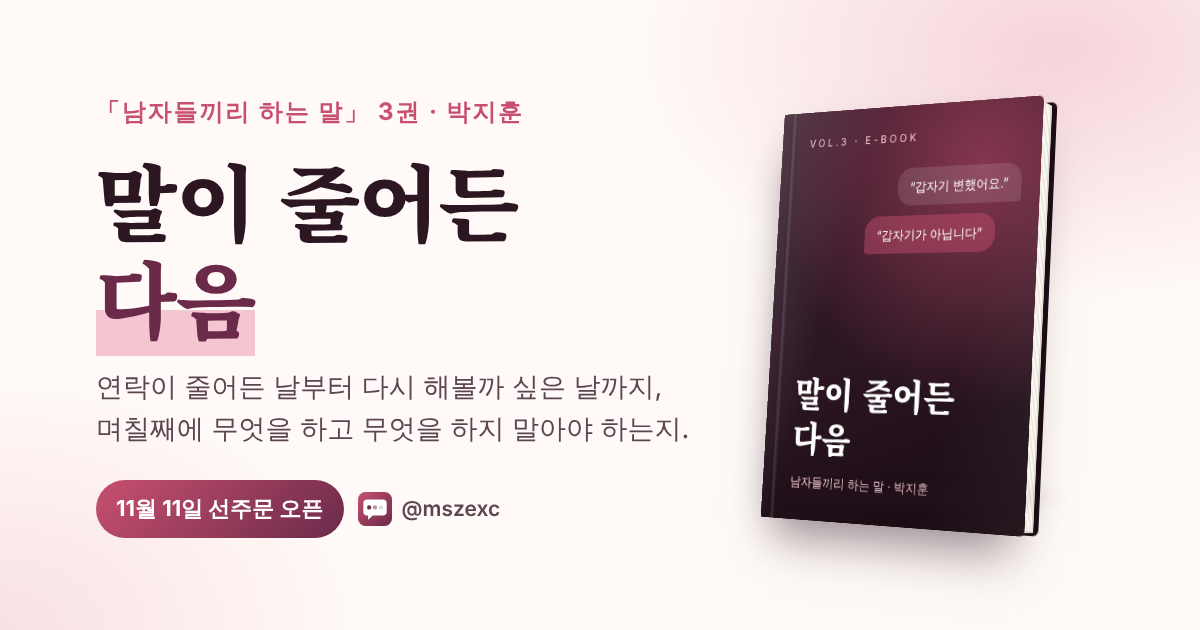
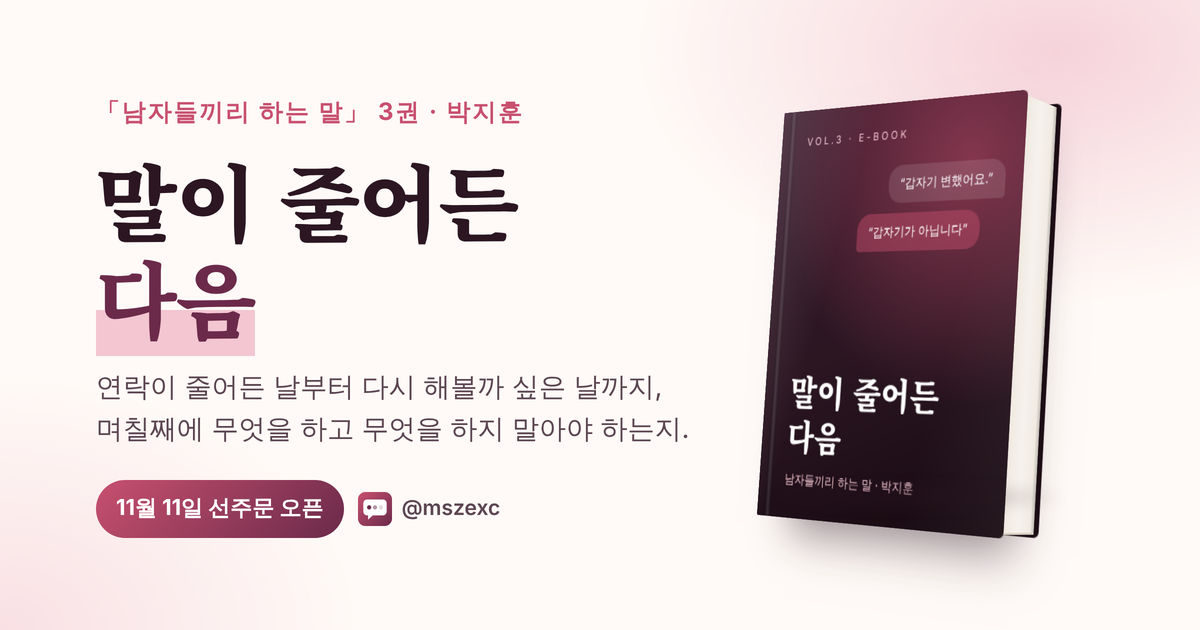
Thicken book mockup to read as ~200 pages
Page block depth 30px -> 58px (mobile 14px -> 27px) with a steeper
angle so the page edge shows; refresh og-image with the thicker book,
rendered at 2x and downscaled to avoid moire on the page lines.

Claude-Session: https://claude.ai/code/session_01X6xrkpnSr8qmy3LcmDmNqV

diff --git a/style.css b/style.css
@@ -112,10 +112,10 @@ p { margin: 0; }
   filter: blur(6px);
 }
 .book {
-  --w: 280px; --h: 392px; --d: 30px;
+  --w: 280px; --h: 392px; --d: 58px; /* 약 200쪽 두께 */
   position: relative; width: var(--w); height: var(--h);
   transform-style: preserve-3d;
-  transform: rotateY(-30deg) rotateX(6deg);
+  transform: rotateY(-36deg) rotateX(6deg);
   animation: float 6s ease-in-out infinite;
 }
 .book-cover {
@@ -143,8 +143,8 @@ p { margin: 0; }
   width: calc(var(--d) - 3px); height: calc(var(--h) - 8px);
   transform: translateX(calc(var(--w) - var(--d) / 2 - 3px)) rotateY(90deg);
   background:
-    linear-gradient(90deg, rgba(0,0,0,.12), transparent 20%, transparent 80%, rgba(0,0,0,.18)),
-    repeating-linear-gradient(90deg, #fbf7f2 0 2px, #e9e1d8 2px 3px);
+    linear-gradient(90deg, rgba(0,0,0,.16), rgba(0,0,0,0) 12%, rgba(255,255,255,.35) 50%, rgba(0,0,0,0) 88%, rgba(0,0,0,.22)),
+    repeating-linear-gradient(90deg, #fcf8f3 0 2px, #e6ddd2 2px 3px);
 }
 .book-pages::after { /* 아랫면 종이 */
   content: ""; position: absolute; left: 0; right: 0; bottom: -1px; height: 2px; background: #d9cfc4;
@@ -163,8 +163,8 @@ p { margin: 0; }
 .book-title { font-family: var(--serif); font-weight: 900; font-size: 36px; line-height: 1.25; }
 .book-sub { margin-top: 12px; font-size: 13px; color: var(--rose-light); }
 @keyframes float {
-  0%, 100% { transform: rotateY(-30deg) rotateX(6deg) translateY(0); }
-  50% { transform: rotateY(-24deg) rotateX(4deg) translateY(-10px); }
+  0%, 100% { transform: rotateY(-36deg) rotateX(6deg) translateY(0); }
+  50% { transform: rotateY(-31deg) rotateX(4deg) translateY(-10px); }
 }
 
 /* Countdown (작게, 칩 줄 아래 한 줄) */
@@ -426,7 +426,7 @@ details.toc-part[open] > summary::after { transform: rotate(45deg); }
   .hero-inner { grid-template-columns: 1fr; gap: 20px; }
   .hero-book { order: -1; }
   .hero-book { padding: 4px 0 18px; }
-  .book { --w: 132px; --h: 185px; --d: 14px; animation: none; transform: rotateY(-28deg) rotateX(4deg); }
+  .book { --w: 132px; --h: 185px; --d: 27px; animation: none; transform: rotateY(-34deg) rotateX(4deg); }
   .book-cover { padding: 12px 10px 12px 16px; }
   .book-cover::before { left: 5px; width: 4px; }
   .book-label { top: 10px; left: 16px; font-size: 7px; letter-spacing: .2em; }
